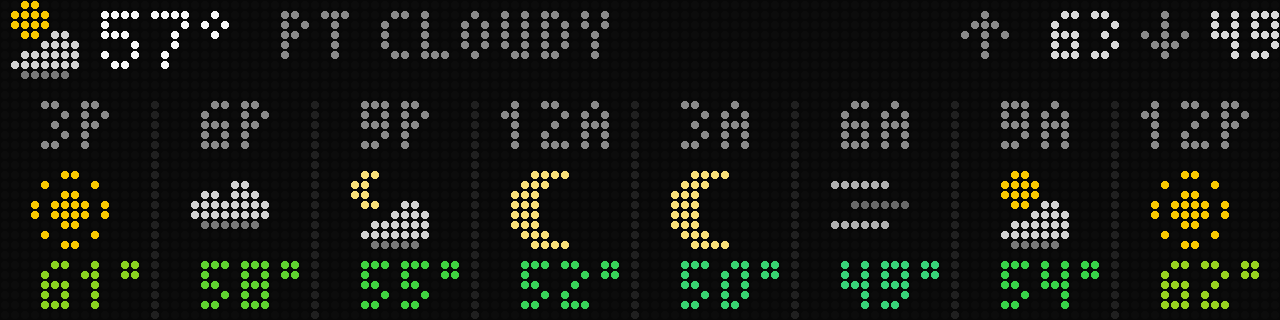
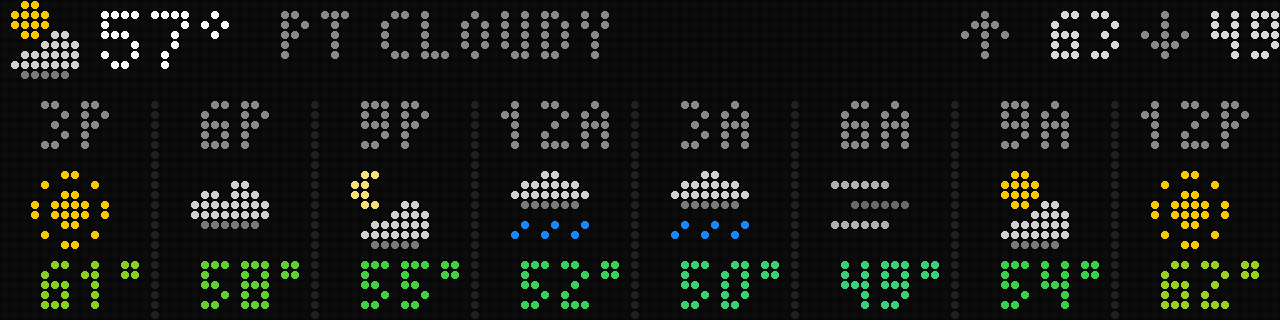
Add busy-station transit layouts and optional weather top bar (128x32 mockups)
Clark/Lake without the chronological view: five destination rows, two
columns of four, and one row per line. 7-day with the top bar on (lows
drop), hourly with it off (rain chance in the freed rows).

Claude-Session: https://claude.ai/code/session_01G1nRWyZ7ESNyz7GfjXtnvu

Changed region(s): [[0.5, 0.5312, 0.5938, 0.7812], [0.375, 0.5312, 0.4688, 0.7812]]

diff --git a/scripts/mock-128-screens.js b/scripts/mock-128-screens.js
@@ -130,24 +130,8 @@ function chrono() {
   return f;
 }
 
-// 7-day forecast: day, icon, high, low.
-function sevenDay() {
-  const f = new Frame(W, H);
-  const days = [['TU', 'sun', 71, 54], ['WE', 'pcloudy_day', 66, 52], ['TH', 'rain', 58, 49], ['FR', 'storm', 61, 47], ['SA', 'cloudy', 52, 40], ['SU', 'snow', 38, 29], ['MO', 'sun', 44, 30]];
-  days.forEach(([d, ic, hi, lo], i) => {
-    const x = i * 18 + 1, cx = x + 8;
-    if (i) f.fill(x - 2, 0, 1, 32, C.rule);
-    ctext(f, 'small', d, cx, 6, i === 0 ? C.label : C.grey);
-    icon(f, ic, cx - 4, 8);
-    ctext(f, 'small', `${hi}°`, cx + 1, 23, tempColor(hi));
-    ctext(f, 'small', `${lo}°`, cx + 1, 30, scale(tempColor(lo), 0.6));
-  });
-  return f;
-}
-
-// Hourly, 24 hours in 3-hour steps, under a fuller top bar.
-function hourly() {
-  const f = new Frame(W, H);
+// The weather screens' top bar (current conditions): optional.
+function topBar(f) {
   icon(f, 'pcloudy_day', 0, 0);
   const tx = f.text('5x7', '57°', 10, 7, C.white);
   f.text('small', 'PT CLOUDY', tx + 4, 6, C.wxText);
@@ -157,13 +141,86 @@ function hourly() {
     rtext(f, 'small', str, x, 6, col);
     x -= measure('small', str) + (str === '63' ? 4 : 2);
   }
-  const hrs = [['3P', 'sun', 61], ['6P', 'cloudy', 58], ['9P', 'pcloudy_night', 55], ['12A', 'moon', 52], ['3A', 'moon', 50], ['6A', 'fog', 49], ['9A', 'pcloudy_day', 54], ['12P', 'sun', 62]];
-  hrs.forEach(([h, ic, t], i) => {
+}
+
+// A 4-5 line station without the chronological view. Clark/Lake, real
+// times (Oct 3, 11:17 PM): five destinations on five lines.
+const CL = [['GR', 'HARLEM/LAKE', ['DUE']], ['BL', "O'HARE", [3, 10, 20, 27]], ['BL', 'FOREST PARK', [6, 21, 39]], ['PK', '54TH/CERMAK', [10, 22]], ['BR', 'KIMBALL', [19, 28, 44]]];
+function destRow(f, x0, x1, top, [ln, lbl, ts]) {
+  f.fill(x0, top, 3, 5, LINE[ln]);
+  const end = f.text('small', lbl, x0 + 5, top + 5, C.label) - 1;
+  times(f, ts, x1, top + 5, end);
+}
+// Five destination rows, no header (the 64 board drops the header to fit, too).
+function transitFive() {
+  const f = new Frame(W, H);
+  CL.forEach((r, i) => destRow(f, 0, 127, 1 + i * 6, r));
+  return f;
+}
+// Two columns of destination rows under the header: eight destinations. Clark/Lake at rush (made up).
+function transitColumns() {
+  const f = new Frame(W, H);
+  f.text('small', 'CLARK/LAKE', 0, 6, C.head);
+  rtext(f, 'small', '5:42', 127, 6, C.clock);
+  const rows = [['BL', "O'HARE", [2, 9, 15]], ['BL', 'FOREST PARK', [4, 11]], ['BR', 'KIMBALL', ['DUE', 7]], ['PR', 'LINDEN', [5, 13]],
+    ['GR', 'HARLEM/LAKE', [3, 12]], ['GR', 'ASHLAND/63RD', [8]], ['OR', 'MIDWAY', [6, 14]], ['PK', '54TH/CERMAK', [10, 19]]];
+  rows.forEach((r, i) => destRow(f, i < 4 ? 0 : 66, i < 4 ? 61 : 127, 8 + (i % 4) * 6, r));
+  return f;
+}
+// One row per line; a line's second destination starts at column 66. Clark/Lake midday (made up).
+function transitByLine() {
+  const f = new Frame(W, H);
+  const lines = [['BL', [["O'HARE", [3, 10]], ['FOREST PARK', [6, 21]]]], ['BR', [['KIMBALL', [5, 13, 21, 29]]]],
+    ['GR', [['HARLEM/LAKE', ['DUE', 12]], ['ASHLAND/63RD', [8]]]], ['OR', [['MIDWAY', [4, 11, 19, 26]]]], ['PK', [['54TH/CERMAK', [10, 22, 34]]]]];
+  lines.forEach(([ln, dests], i) => {
+    const top = 1 + i * 6;
+    f.fill(0, top, 3, 5, LINE[ln]);
+    dests.forEach(([lbl, ts], k) => {
+      const x0 = k ? 66 : 5, x1 = dests.length > 1 && !k ? 61 : 127;
+      const end = f.text('small', lbl, x0, top + 5, C.label) - 1;
+      times(f, ts, x1, top + 5, end);
+    });
+  });
+  return f;
+}
+
+// 7-day forecast: day, icon, high, low. With the top bar the lows drop out.
+function sevenDay({ top = false } = {}) {
+  const f = new Frame(W, H);
+  if (top) topBar(f);
+  const o = top ? 8 : 0;
+  const days = [['TU', 'sun', 71, 54], ['WE', 'pcloudy_day', 66, 52], ['TH', 'rain', 58, 49], ['FR', 'storm', 61, 47], ['SA', 'cloudy', 52, 40], ['SU', 'snow', 38, 29], ['MO', 'sun', 44, 30]];
+  days.forEach(([d, ic, hi, lo], i) => {
+    const x = i * 18 + 1, cx = x + 8;
+    if (i) f.fill(x - 2, o + (top ? 2 : 0), 1, 32 - o, C.rule);
+    ctext(f, 'small', d, cx, o + 6, i === 0 ? C.label : C.grey);
+    icon(f, ic, cx - 4, o + 8);
+    if (top) { ctext(f, 'small', `${hi}°`, cx + 1, 31, tempColor(hi)); return; }
+    ctext(f, 'small', `${hi}°`, cx + 1, 23, tempColor(hi));
+    ctext(f, 'small', `${lo}°`, cx + 1, 30, scale(tempColor(lo), 0.6));
+  });
+  return f;
+}
+
+// Hourly, 24 hours in 3-hour steps. Without the top bar the freed rows carry the rain chance.
+function hourly({ top = true } = {}) {
+  const f = new Frame(W, H);
+  if (top) topBar(f);
+  const hrs = [['3P', 'sun', 61, 0], ['6P', 'cloudy', 58, 10], ['9P', 'pcloudy_night', 55, 20], ['12A', 'rain', 52, 60], ['3A', 'rain', 50, 70], ['6A', 'fog', 49, 30], ['9A', 'pcloudy_day', 54, 10], ['12P', 'sun', 62, 0]];
+  hrs.forEach(([h, ic, t, pop], i) => {
     const cx = i * 16 + 7;
-    if (i) f.fill(i * 16 - 1, 10, 1, 22, C.rule);
-    ctext(f, 'small', h, cx, 15, C.grey);
-    icon(f, ic, cx - 4, 17);
-    ctext(f, 'small', `${t}°`, cx + 1, 31, tempColor(t));
+    if (top) {
+      if (i) f.fill(i * 16 - 1, 10, 1, 22, C.rule);
+      ctext(f, 'small', h, cx, 15, C.grey);
+      icon(f, ic, cx - 4, 17);
+      ctext(f, 'small', `${t}°`, cx + 1, 31, tempColor(t));
+      return;
+    }
+    if (i) f.fill(i * 16 - 1, 0, 1, 32, C.rule);
+    ctext(f, 'small', h, cx, 6, C.grey);
+    icon(f, ic, cx - 4, 8);
+    ctext(f, 'small', `${t}°`, cx + 1, 23, tempColor(t));
+    ctext(f, 'small', `${pop}%`, cx, 30, pop >= 20 ? '#1e90ff' : pop ? '#2a5a90' : '#3a3a3a');
   });
   return f;
 }
@@ -257,8 +314,13 @@ async function main() {
     ['redrawn', 'transit-split', 'Transit, by direction', 'Belmont split north | south, two times or more per line. The station and clock move to the bottom.', 'Real Belmont times (Oct 3, 11:16 PM, no Purple).', transitSplit()],
     ['redrawn', 'ticker', 'Ticker', 'After the CTA platform signs: the row number in the grey column, the full destination, the time at the far right, then the live-train signal, or a clock for a scheduled train (row 2).', 'Real Morse times; the Howard train is marked scheduled here to show the clock.', ticker()],
     ['redrawn', 'chrono', 'Chronological, two columns', 'Eight trains instead of four, with full names (FOREST PK, 54/CERMAK).', 'Real Clark/Lake times.', chrono()],
+    ['redrawn', 'transit-five', 'Busy station: five rows', 'Clark/Lake\'s five destinations as destination rows with full names and up to four times; the header drops to make room, as it does on the 64 board.', 'Real Clark/Lake times.', transitFive()],
+    ['redrawn', 'transit-columns', 'Busy station: two columns', 'Eight destinations in two columns of four under the header: Clark/Lake at rush. Long names leave room for one or two times.', 'Made-up times.', transitColumns()],
+    ['redrawn', 'transit-byline', 'Busy station: one row per line', 'Five lines on five rows; a line with two destinations puts the second at the halfway mark (Blue: O\'Hare and Forest Park).', 'Made-up times. Seven destinations, no paging.', transitByLine()],
     ['redrawn', 'seven-day', '7-day forecast', 'Seven columns with highs and lows; the 64 screen shows five days and highs only.', 'NWS gives seven days already.', sevenDay()],
-    ['redrawn', 'hourly', 'Hourly, 24 hours', 'Eight 3-hour steps under a top bar with room for the condition and feels-like.', 'The server builds 4 slots today (HOUR_STEPS); the NWS hourly feed covers more.', hourly()],
+    ['redrawn', 'seven-day-top', '7-day, top bar on', 'The current-conditions bar as an option: with it on, the lows drop out.', '', sevenDay({ top: true })],
+    ['redrawn', 'hourly', 'Hourly, 24 hours', 'Eight 3-hour steps under the top bar.', 'The server builds 4 slots today (HOUR_STEPS); the NWS hourly feed covers more.', hourly()],
+    ['redrawn', 'hourly-notop', 'Hourly, top bar off', 'Without the bar the freed rows carry each slot\'s rain chance (bright from 20%).', '', hourly({ top: false })],
     ['redrawn', 'radar', 'Radar, 128 wide', 'A real MRMS frame (the Aug 10, 2020 derecho) cropped 128 LEDs wide: about 190 mi of the region instead of 95. The station sits right of center; the time stack moves over the lake.', 'Each station needs a new water mask at 128 (built here from the lake outline).', null],
     ['redrawn', 'line-score', 'Baseball line score', 'Runs by inning, R H E, then the count, outs, pitch count and bases.', 'The innings come in the linescore the server already fetches; the pitch count would need a field added.', lineScore()],
     ['redrawn', 'note', 'Message note', 'About 21 characters a line in 5x7 instead of 10.', '', note()],
